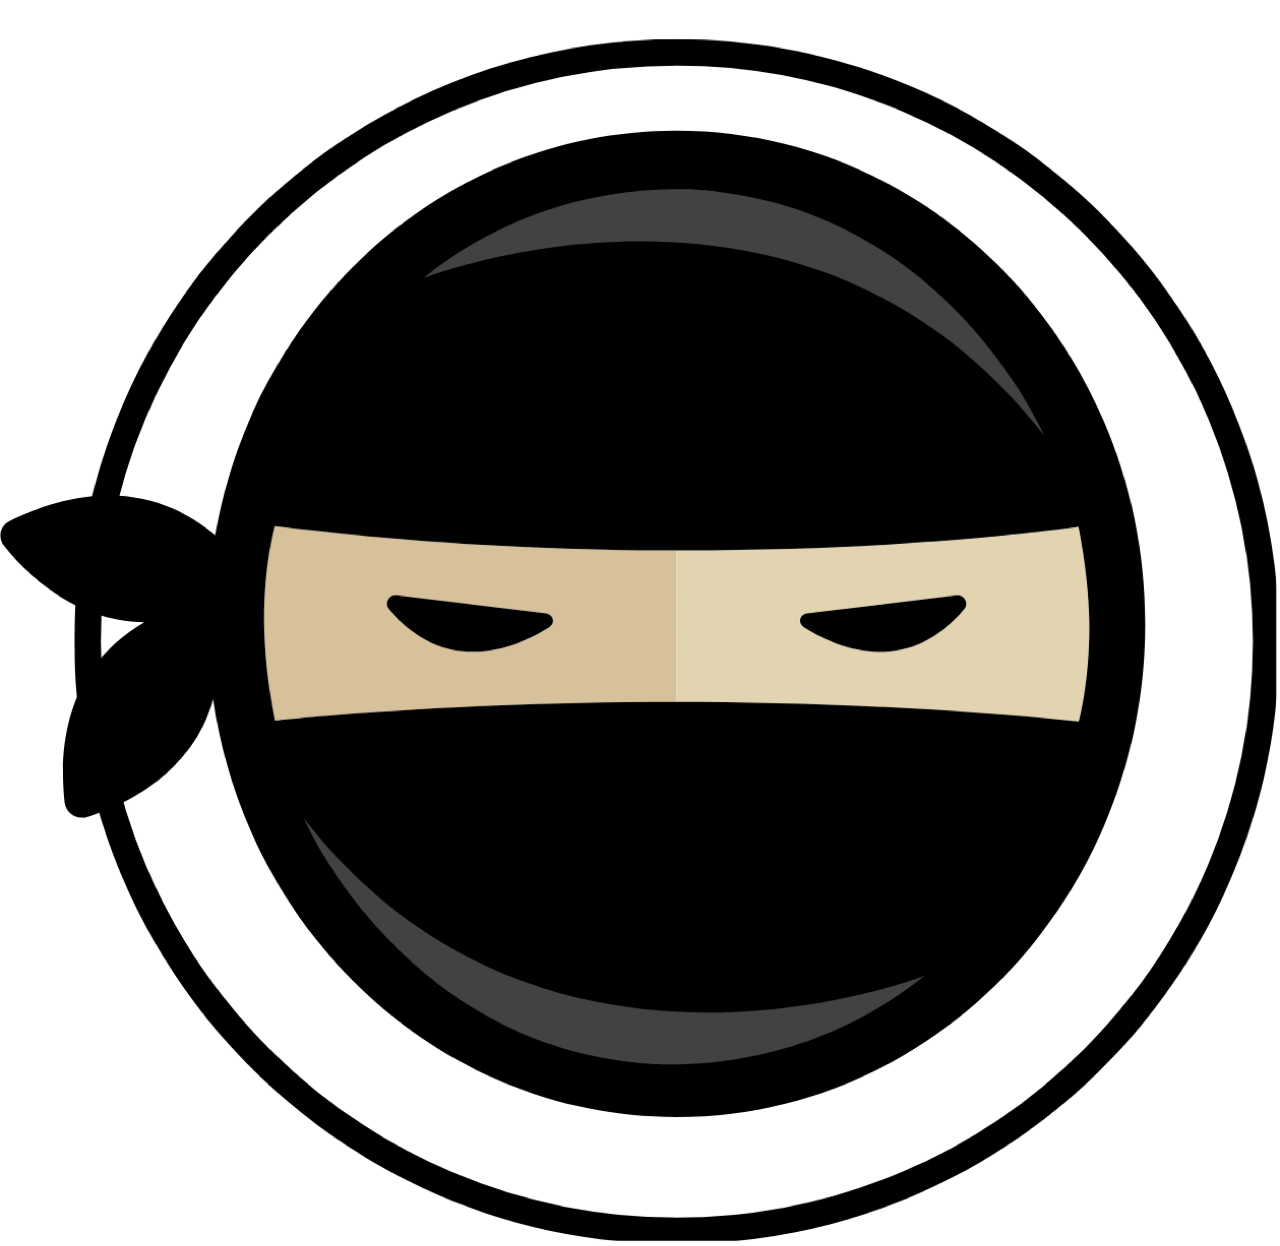
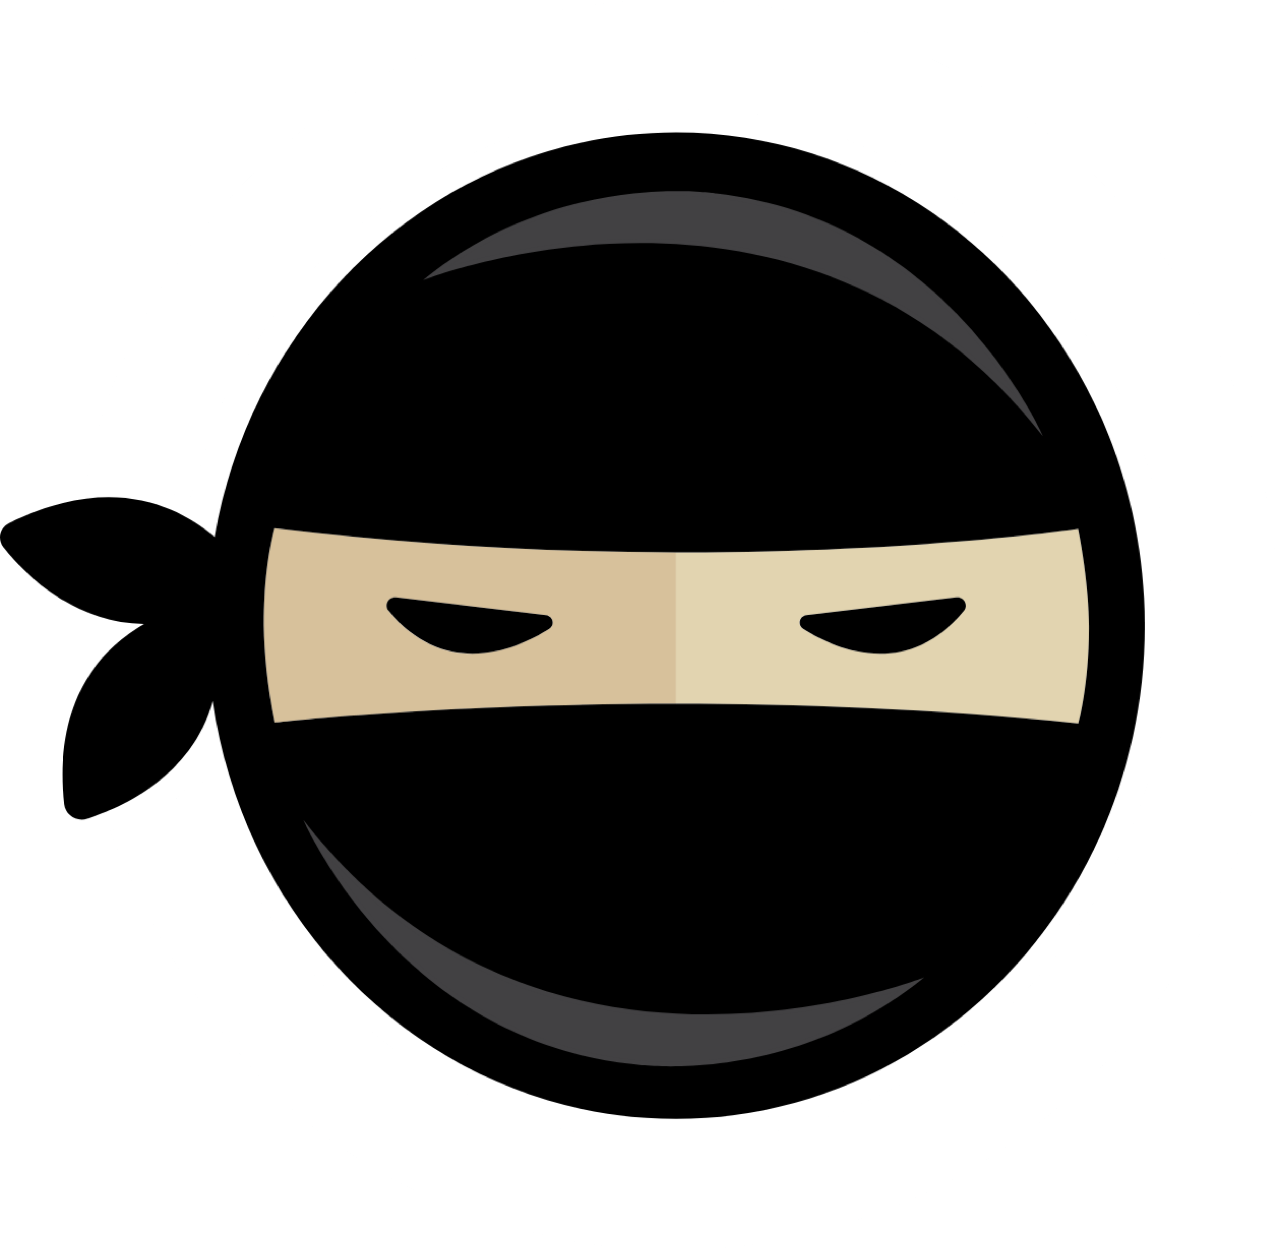
The white belt loses its sticker outline and the art holds its colour

Changed region(s): [[0.0625, 0.0305, 1.0, 1.0], [0.0312, 0.488, 0.0938, 0.549]]

diff --git a/client/src/pages/parent/ParentCourses.jsx b/client/src/pages/parent/ParentCourses.jsx
@@ -190,11 +190,22 @@ function CreateDetail({ enrollment, logs, childName, backTo }) {
             opacity was tried at several values and each one did the same two
             things wrong: it drained the belt's colour, which is the one thing
             the art is there to say, and it still left the ring's outline
-            drawn straight through the road.
+            drawn straight through the road. The stops are late on purpose —
+            solid for the first 55% and not gone until 96% — so most of what
+            is on screen is the belt at its true colour and only the tail of
+            it thins out over the words.
 
-            `large` asks for the 768px copy, because the banner paints one at
-            around 330 CSS px — over 600 device pixels on a retina screen —
-            and the everyday 256px file upscaled that far looks like a bad
+            One belt is not the sticker sheet's own: `belt-white-lg.png` is
+            the BLUE belt with its ring recoloured white, because the sheet's
+            white belt carries a black outer stroke so it stays visible on
+            white paper. Right for a sticker, wrong on a blue banner, and the
+            other twelve carry no such stroke. The small `belt-white.png`
+            keeps its outline — it is drawn on white cards all over the staff
+            side, where without one there would be nothing to see.
+
+            `large` asks for the 1280px copy, because the banner paints one
+            at around 650 CSS px — some 1300 device pixels on a retina screen
+            — and the everyday 256px file upscaled that far looks like a bad
             JPEG. The nine belts that have one get it; the metallic four have
             no transparent source art yet and fall back to the small file.
             They are NOT blurred to cover for it: blur took the one thing a
@@ -210,8 +221,8 @@ function CreateDetail({ enrollment, logs, childName, backTo }) {
           className="hidden lg:block absolute inset-y-[-15%] right-[calc(50%-50cqw-3rem)] aspect-square pointer-events-none"
           style={{
             zIndex: -1,
-            maskImage: 'linear-gradient(to bottom left, #000 28%, transparent 78%)',
-            WebkitMaskImage: 'linear-gradient(to bottom left, #000 28%, transparent 78%)',
+            maskImage: 'linear-gradient(to bottom left, #000 55%, transparent 96%)',
+            WebkitMaskImage: 'linear-gradient(to bottom left, #000 55%, transparent 96%)',
           }}
         >
           <BeltIcon belt={viewBelt} large style={{ width: '100%', height: '100%' }} />
